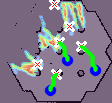
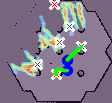
priorisation des zones plus grandes

Changed region(s): [[0.5089, 0.3786, 0.9107, 0.7573], [0.375, 0.6117, 0.6696, 0.9612]]

diff --git a/main.py b/main.py
@@ -126,7 +126,7 @@ class DetectionPointsInteretsUltraUltra:
 
     # ---------- Étape 6 ----------
     def topk_points_interet(self, heatmap: np.ndarray, top_k: int) -> List[Tuple[int,int,float]]:
-        """Retourne 1 point par zone connectée, tri par score."""
+        """Retourne 1 point par zone connectée, tri par taille puis score."""
         mask = heatmap > 0
         num_labels, labels = cv2.connectedComponents(mask.astype(np.uint8))
         points = []
@@ -137,10 +137,15 @@ class DetectionPointsInteretsUltraUltra:
                 continue
             scores = heatmap[ys, xs]
             idx_best = np.argmax(scores)
-            points.append((xs[idx_best], ys[idx_best], float(scores[idx_best])))
+            zone_size = len(xs)  # taille de la zone
+            points.append((xs[idx_best], ys[idx_best], float(scores[idx_best]), zone_size))
 
-        points.sort(key=lambda p: -p[2])
-        return points[:top_k] if len(points) > top_k else points
+        # Trier d'abord par taille décroissante, puis par score décroissant
+        points.sort(key=lambda p: (-p[3], -p[2]))
+
+        # Retourner top_k points
+        return [(x, y, score, size) for x, y, score, size in points[:top_k]]
+
 
     # ---------- Visualisation ----------
     def enregistrer_heatmap_superposee(self, alpha=0.55, colormap=cv2.COLORMAP_TURBO):
@@ -160,7 +165,7 @@ class DetectionPointsInteretsUltraUltra:
         hm_color = cv2.applyColorMap(hm8, colormap)
         overlay = cv2.addWeighted(hm_color, alpha, img_orig_color, 1-alpha, 0)
 
-        for (x, y, _) in self.points_interet:
+        for (x, y, a, _) in self.points_interet:
             cv2.drawMarker(overlay, (x, y), (255,255,255),
                            markerType=cv2.MARKER_TILTED_CROSS, markerSize=8, thickness=2)
             cv2.drawMarker(overlay, (x, y), (0,0,255),
@@ -181,7 +186,7 @@ class DetectionPointsInteretsUltraUltra:
         overlay = cv2.addWeighted(hm_color, alpha, img_orig_color, 1-alpha, 0)
 
         # Points d'intérêt
-        for (x, y, _) in self.points_interet:
+        for (x, y, a, _) in self.points_interet:
             cv2.drawMarker(overlay, (x, y), (255,255,255),
                            markerType=cv2.MARKER_TILTED_CROSS, markerSize=8, thickness=2)
             cv2.drawMarker(overlay, (x, y), (0,0,255),
@@ -232,16 +237,17 @@ class MultiRobotUltraUltra:
 
         # Calculer le chemin et le coût pour chaque robot → point
         for i, (rx, ry) in enumerate(robot_positions):
-            for j, (px, py, _) in enumerate(self.points_interet):
+            for j, (px, py, score, size) in enumerate(self.points_interet):
                 try:
                     path, cost = route_through_array(self.cost_map, start=(ry, rx), end=(py, px), fully_connected=True)
-                    cost_matrix[i, j] = cost
-                    # Convertir (row,col) → (x,y)
+                    # On diminue le coût proportionnellement à la taille de la zone
+                    adjusted_cost = cost / (1 + size)
+                    cost_matrix[i, j] = adjusted_cost
                     paths_matrix[i][j] = [(c, r) for r, c in path]
                 except Exception:
-                    # Aucun chemin trouvé
                     cost_matrix[i, j] = np.inf
                     paths_matrix[i][j] = []
+
 
         # Hungarian pour assignation optimale
         row_ind, col_ind = linear_sum_assignment(cost_matrix)
@@ -260,7 +266,7 @@ if __name__ == "__main__":
     import time
     a = time.time()
     det = DetectionPointsInteretsUltraUltra("map.pgm", top_k=50)
-    robots = [(67,60), (50,90), (95,70)]
+    robots = [(67,60), (67,70)]
 
     multi = MultiRobotUltraUltra(det.heatmap_normalisee, robots, det.points_interet)
     targets, paths = multi.assign_targets_fast()
